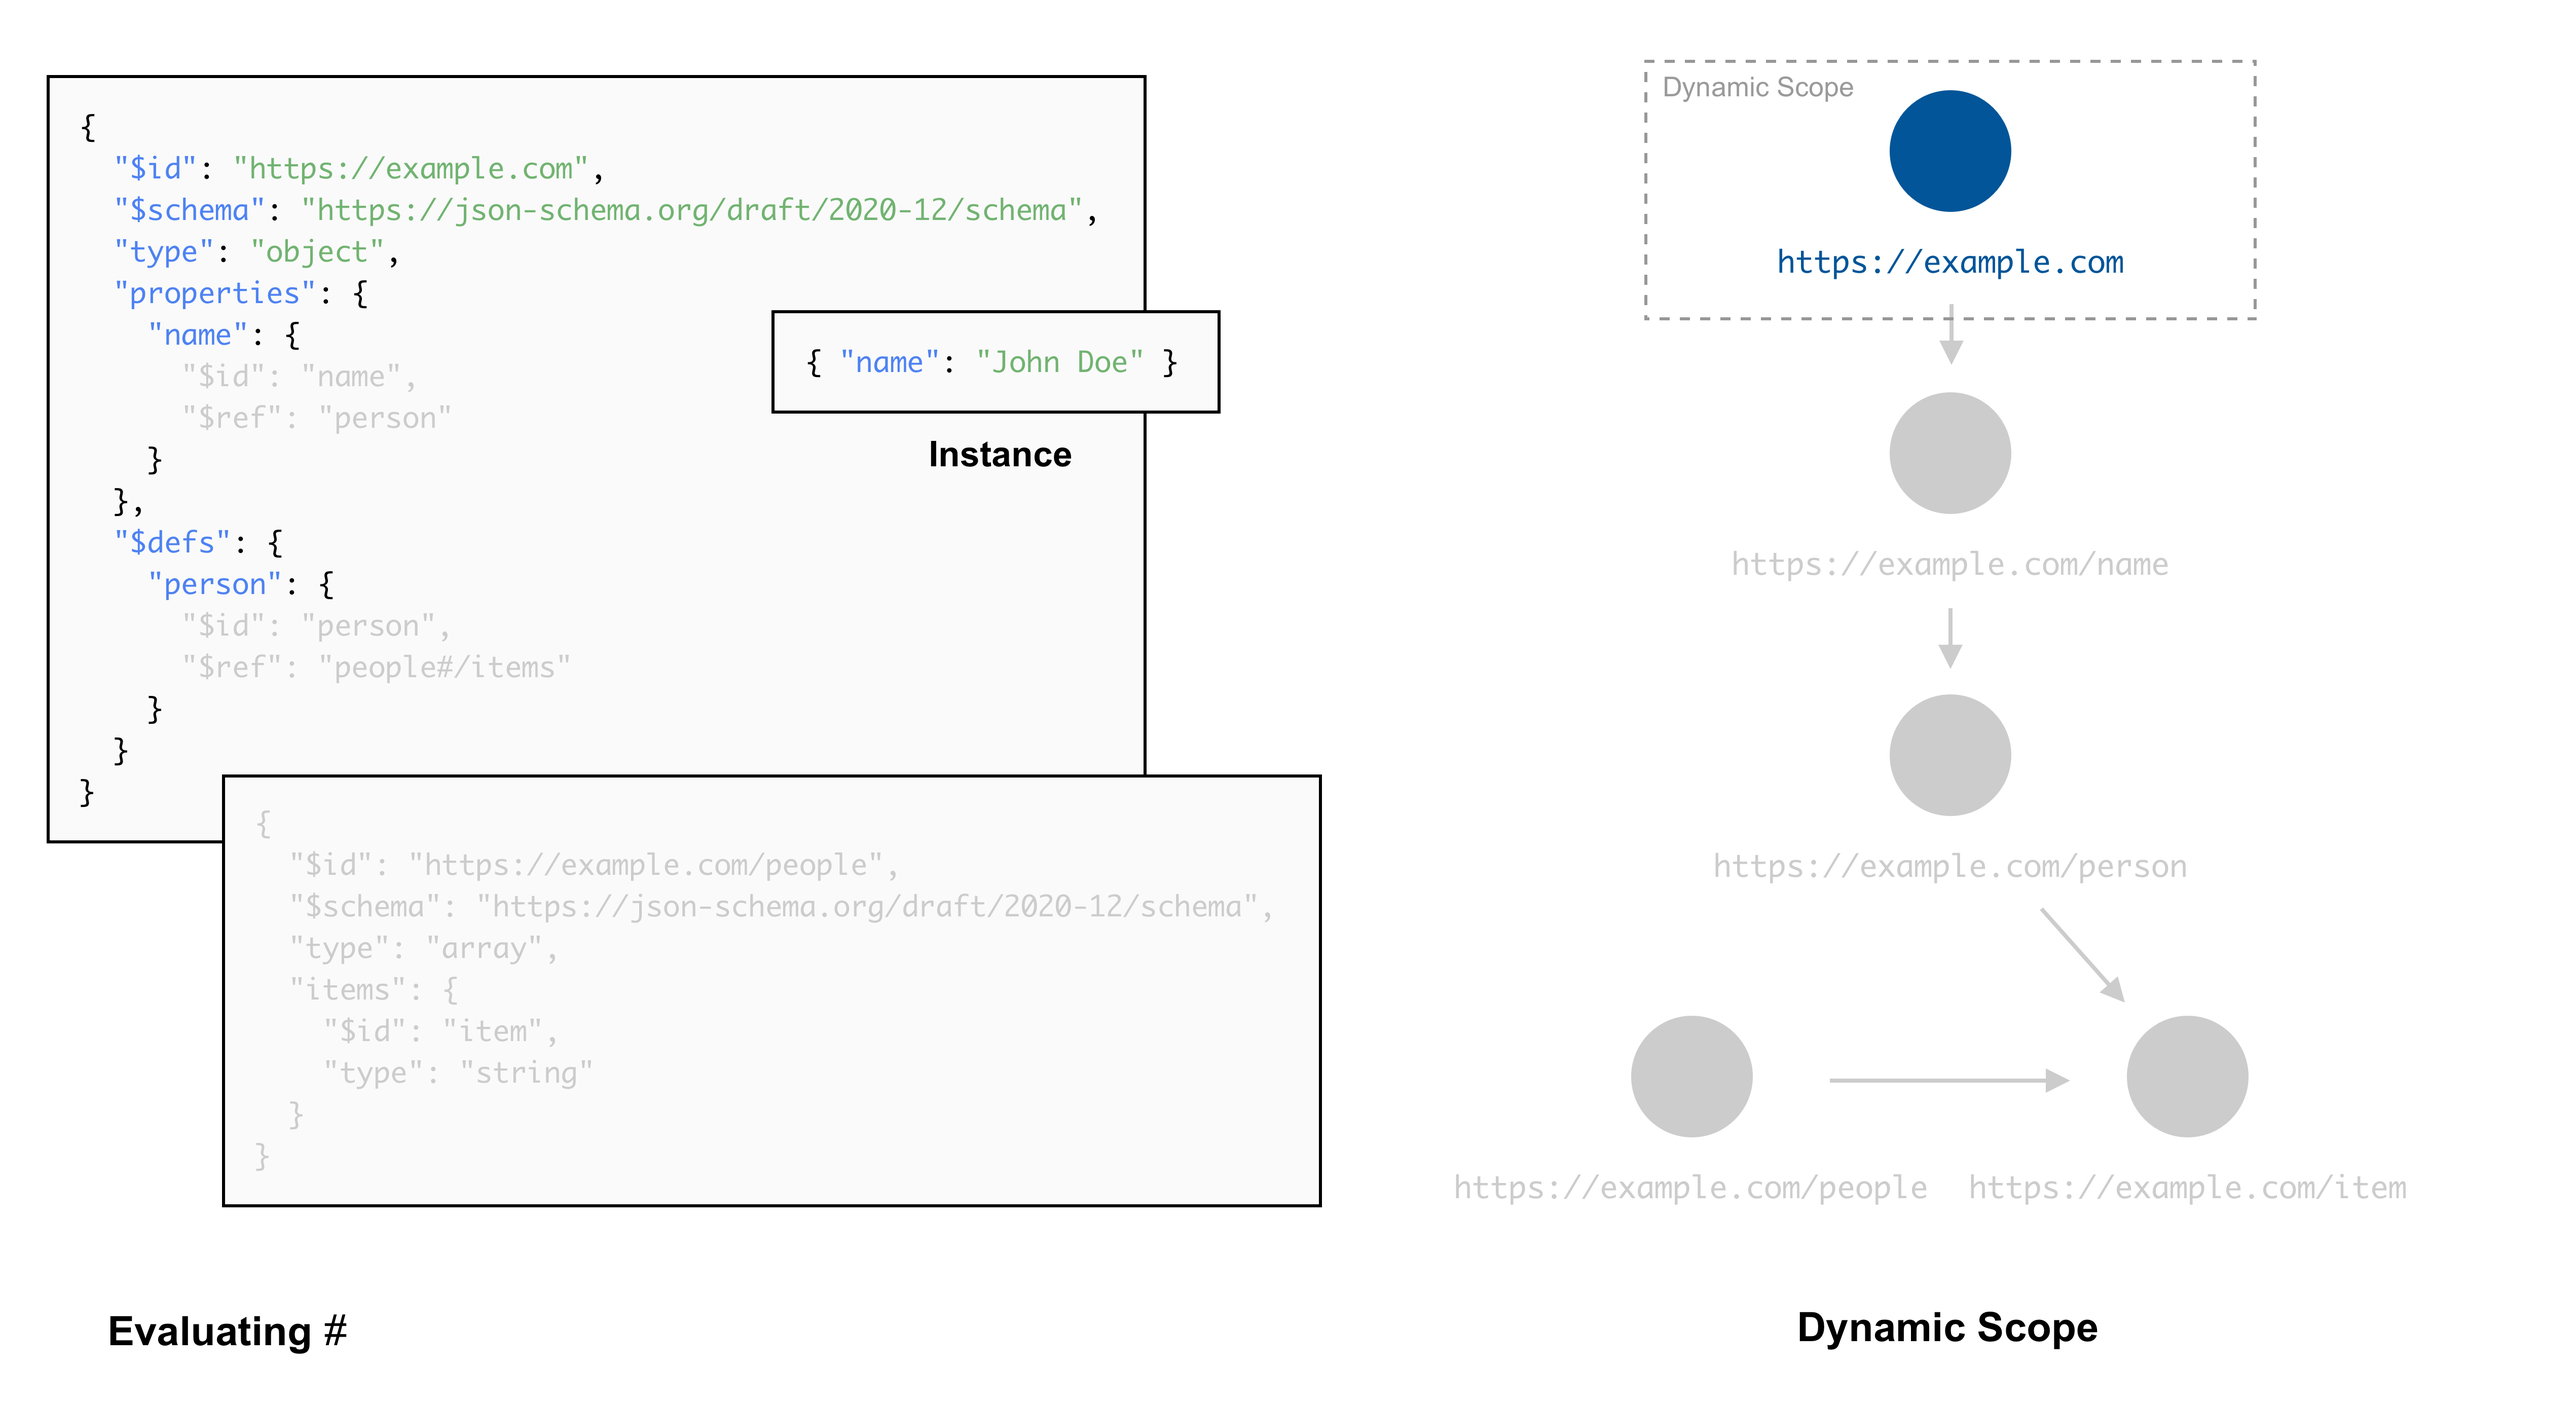
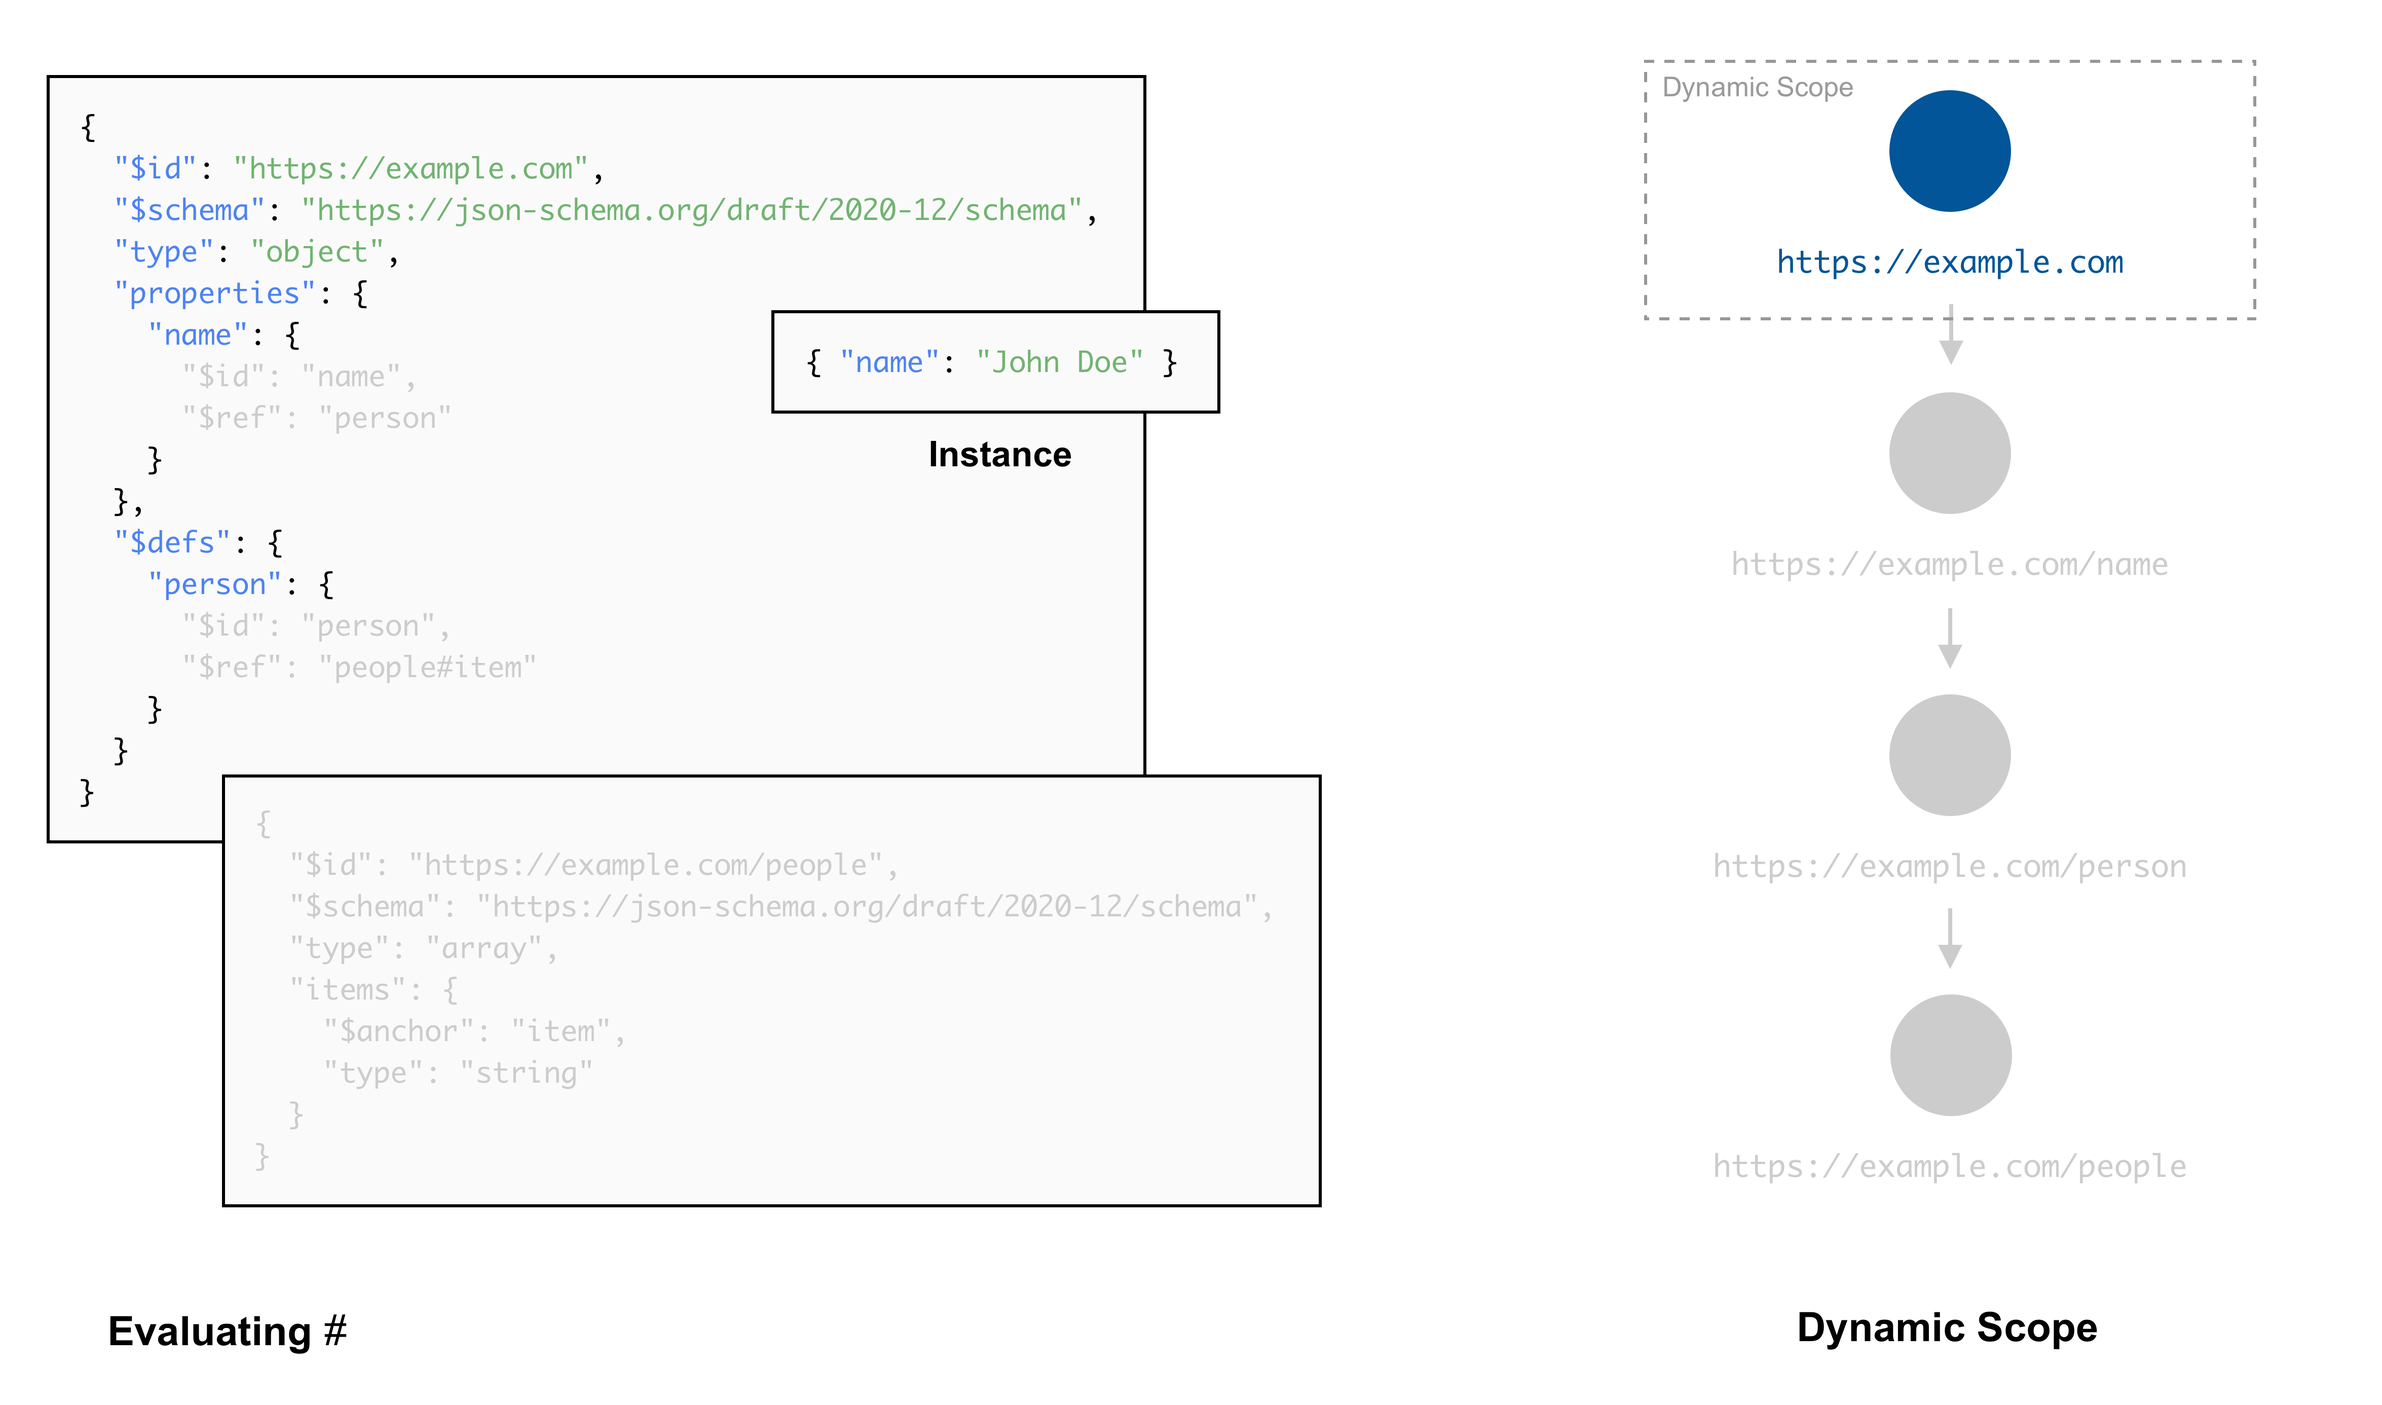
Do not promote references across schema resources

diff --git a/pages/blog/posts/understanding-lexical-dynamic-scopes.md b/pages/blog/posts/understanding-lexical-dynamic-scopes.md
@@ -269,11 +269,11 @@ instance and a root schema resource named `https://example.com` that declares
 two nested schema resources: `https://example.com/name` (at `/properties/name`)
 and `https://example.com/person` (at `/$defs/person`) where the former
 references the latter (from `/properties/name/$ref`). Furthermore,
-`https://example.com/person` references a nested schema resource called
-`https://example.com/item` (from `/$defs/person/$ref`) that is part of an
-external schema resource called `https://example.com/people` shown in the
-bottom left. On the right, a directed graph representation of the relationship
-between these schema resources and the dynamic scope.
+`https://example.com/person` references an anchored schema called `item` (from
+`/$defs/person/$ref`) that is part of an external schema resource called
+`https://example.com/people` shown in the bottom left. On the right, a directed
+graph representation of the relationship between these schema resources and the
+dynamic scope.
 
 Like the other examples so far, the evaluation process starts with the top
 level schema. The dynamic scope at that point is the root schema resource, and
@@ -301,20 +301,13 @@ schema resource at `/$defs/person`):
 Now comes an interesting case. We are currently evaluating the nested schema
 resource called `https://example.com/person`. This schema resource points to
 the remote schema called `https://example.com/people` (the `people` part of the
-`people#/item` URI reference), but does not land at its root schema resource.
-Instead, it lands at the nested schema resource called
-`https://example.com/item` (the `#/item` part of the `people#/item` URI
-reference).
-
-In this case, we only push the destination schema resource to the dynamic
-scope, *jumping* over the root schema resource of the external schema.  After
-following this final reference, the dynamic scope now consists of
-`https://example.com` (the root schema resource), followed by
-`https://example.com/name` (the nested schema resource at `/properties/name`),
-followed by `https://example.com/person` (the nested schema resource at
-`/$defs/person`), followed by `https://example.com/item` (the nested schema
-resource of the external schema). Note that the root schema resource called
-`https://example.com/people` is not part of the dynamic scope:
+`people#item` URI reference), but does not land at its root.  Instead, it lands
+at the subschema in `/items` (where the `item` anchor from the `people#item`
+URI reference is located). This subschema is part of the root schema resource,
+so the dynamic scope now consists of `https://example.com` (the root schema
+resource), followed by `https://example.com/name` (the nested schema resource
+at `/properties/name`), followed by `https://example.com/person` (the nested
+schema resource at `/$defs/person`), followed by `https://example.com/people`:
 
 ![The dynamic scope and remote references (4)](/img/posts/2024/understanding-lexical-dynamic-scopes/dynamic-scope-ref-remote-4.webp)
 
